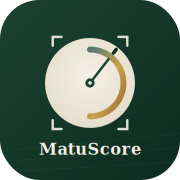
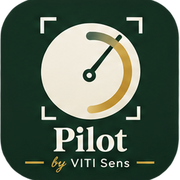
mise à jour icone

diff --git a/portail_client.html b/portail_client.html
@@ -759,6 +759,17 @@ function showMegaTab(mega){
  if(btn) btn.classList.add('act');
  document.getElementById('mega-phyto').style.display = mega==='phyto' ? 'block' : 'none';
  document.getElementById('mega-vendanges').style.display = mega==='vendanges' ? 'block' : 'none';
+ // Sécurité : nettoie l'état de TOUTES les sous-sections (des deux groupes), pour
+ // qu'un résidu d'une visite précédente (ex. "Réglages" resté actif) ne puisse
+ // jamais réapparaître au prochain passage sur ce groupe — puis affiche un
+ // sous-onglet par défaut cohérent plutôt que de laisser l'état précédent décider.
+ const allSubSections={phyto:['bulletin','meteo','traitements','historique','documents'],
+                    vendanges:['maturite','rendement','exploitation','itineraire','carnet','parcelles','reglages']};
+ Object.values(allSubSections).flat().forEach(n=>{
+  const s=document.getElementById('sec-'+n);
+  if(s) s.classList.remove('active');
+ });
+ showSubTab(mega, mega==='phyto' ? 'bulletin' : 'maturite');
 }
 
 function showSubTab(mega, name){

diff --git a/inscription.html b/inscription.html
@@ -44,7 +44,7 @@ input:focus{outline:none;border-color:var(--gm)}
 <body>
 
 <div class="header">
-  <h1>🍇 Pilot by VITI Sens</h1>
+  <h1>🍇 Pilot</h1>
   <div class="by">by VITI Sens</div>
   <div class="sub">Pilotez vos vendanges au kg près</div>
 </div>

diff --git a/connexion.html b/connexion.html
@@ -36,7 +36,7 @@ input:focus{outline:none;border-color:var(--gm)}
 <body>
 
 <div class="header">
-  <h1>🍇 Pilot by VITI Sens</h1>
+  <h1>🍇 Pilot</h1>
   <div class="by">by VITI Sens</div>
   <div class="sub">Connexion à votre espace</div>
 </div>

diff --git a/mot-de-passe-oublie.html b/mot-de-passe-oublie.html
@@ -37,7 +37,7 @@ input:focus{outline:none;border-color:var(--gm)}
 <body>
 
 <div class="header">
-  <h1>🍇 Pilot by VITI Sens</h1>
+  <h1>🍇 Pilot</h1>
   <div class="by">by VITI Sens</div>
   <div class="sub">Mot de passe oublié</div>
 </div>

diff --git a/reinitialiser-mot-de-passe.html b/reinitialiser-mot-de-passe.html
@@ -37,7 +37,7 @@ input:focus{outline:none;border-color:var(--gm)}
 <body>
 
 <div class="header">
-  <h1>🍇 Pilot by VITI Sens</h1>
+  <h1>🍇 Pilot</h1>
   <div class="by">by VITI Sens</div>
   <div class="sub">Nouveau mot de passe</div>
 </div>
